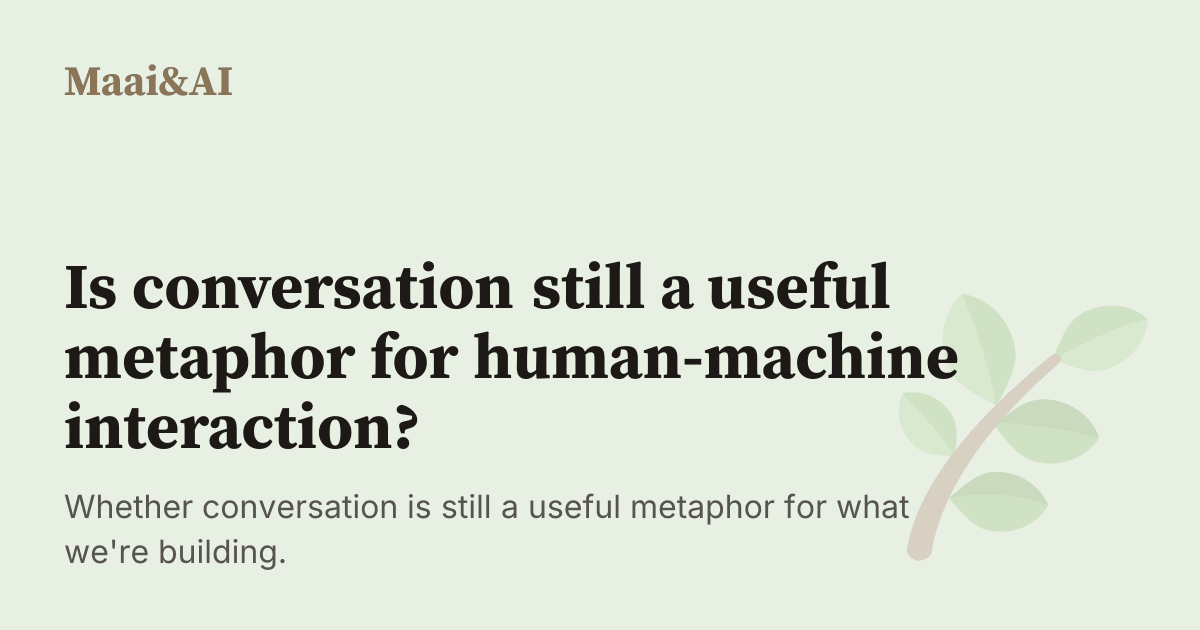
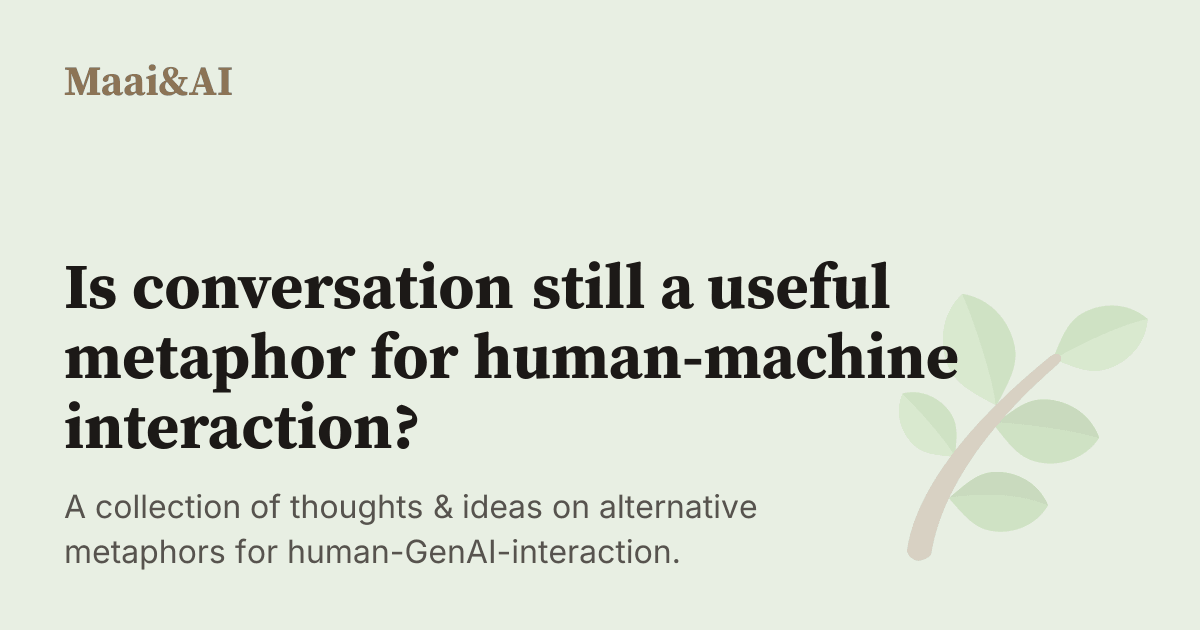
Update description for conversation metaphor article

Changed region(s): [[0.0308, 0.7841, 0.7708, 0.9048]]

diff --git a/src/content/articles/is-conversation-still-a-useful-metaphor.md b/src/content/articles/is-conversation-still-a-useful-metaphor.md
@@ -9,7 +9,7 @@ tags:
   - design-metaphor
   - conversation-design
   - generative-ai-design
-description: "Whether conversation is still a useful metaphor for what we're building."
+description: "A collection of thoughts & ideas on alternative metaphors for human-GenAI-interaction."
 ai: 100% Maai
 ---
 
